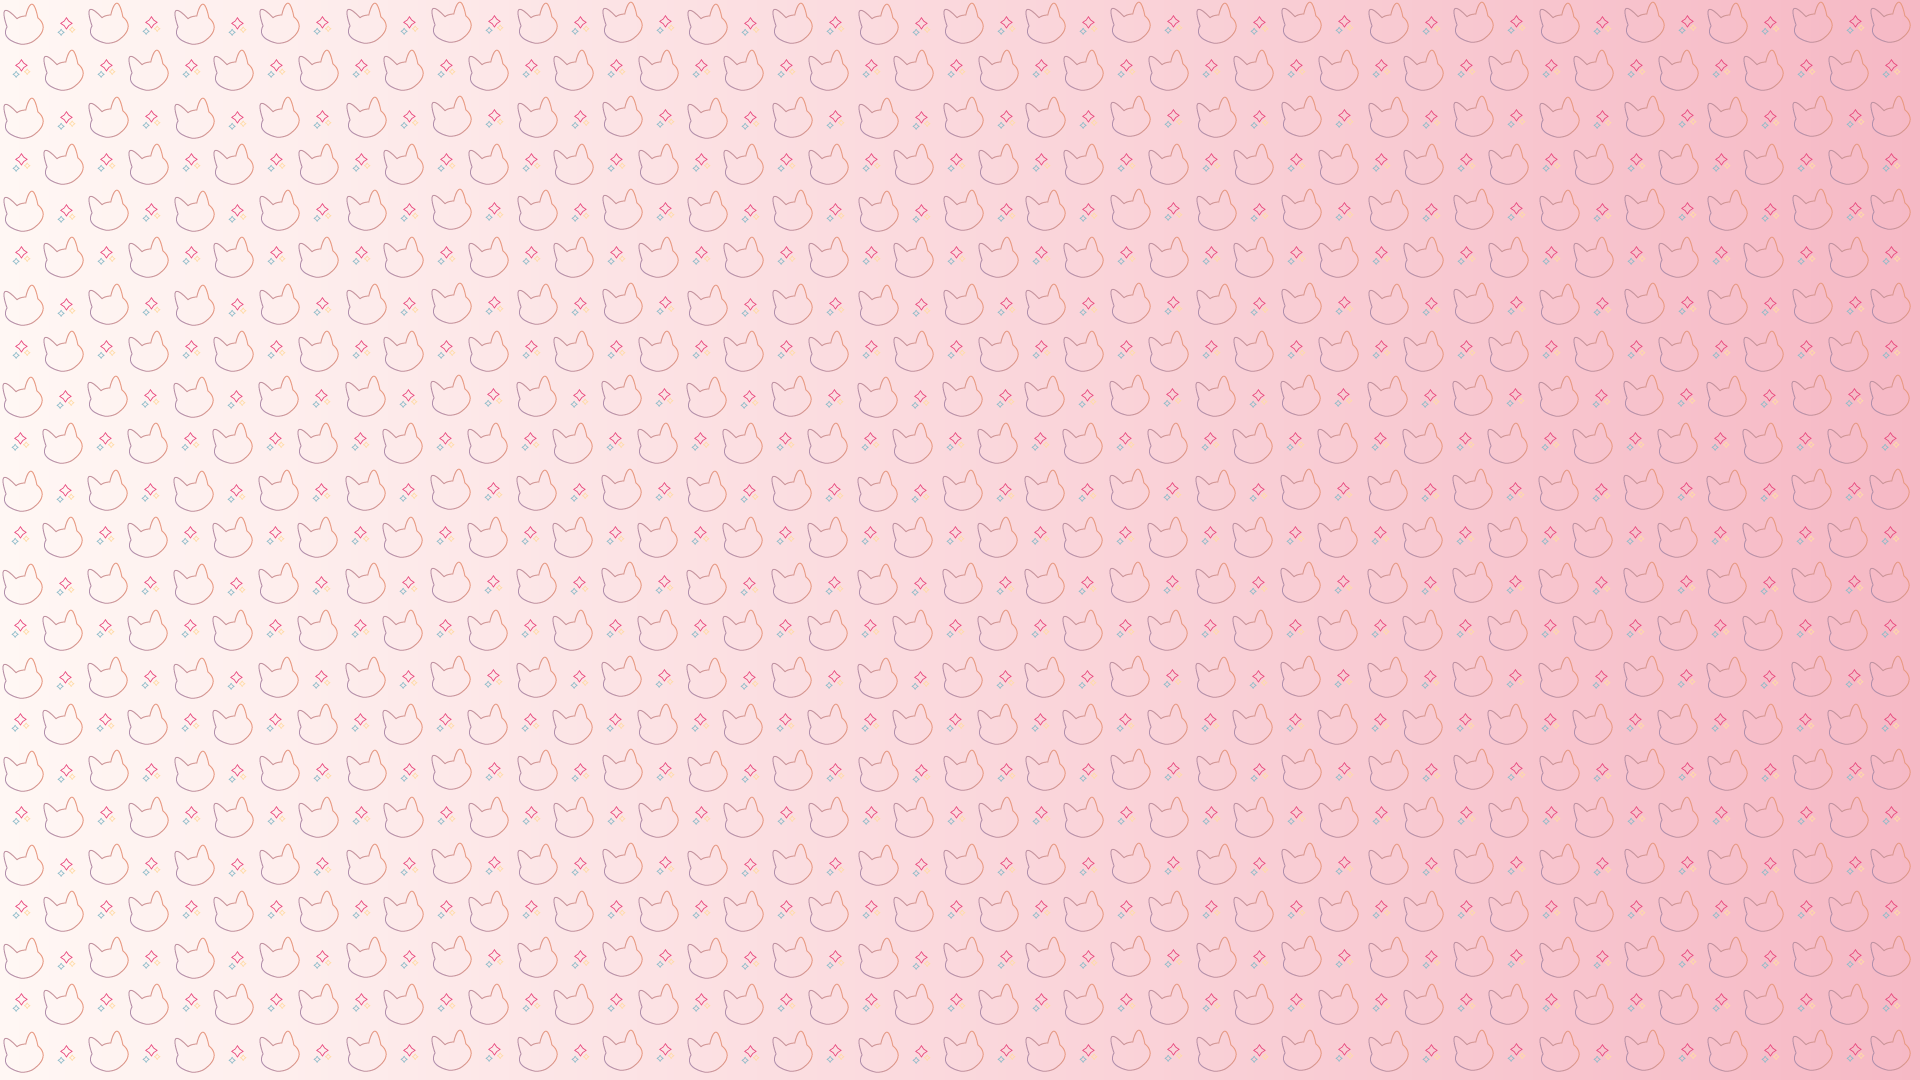
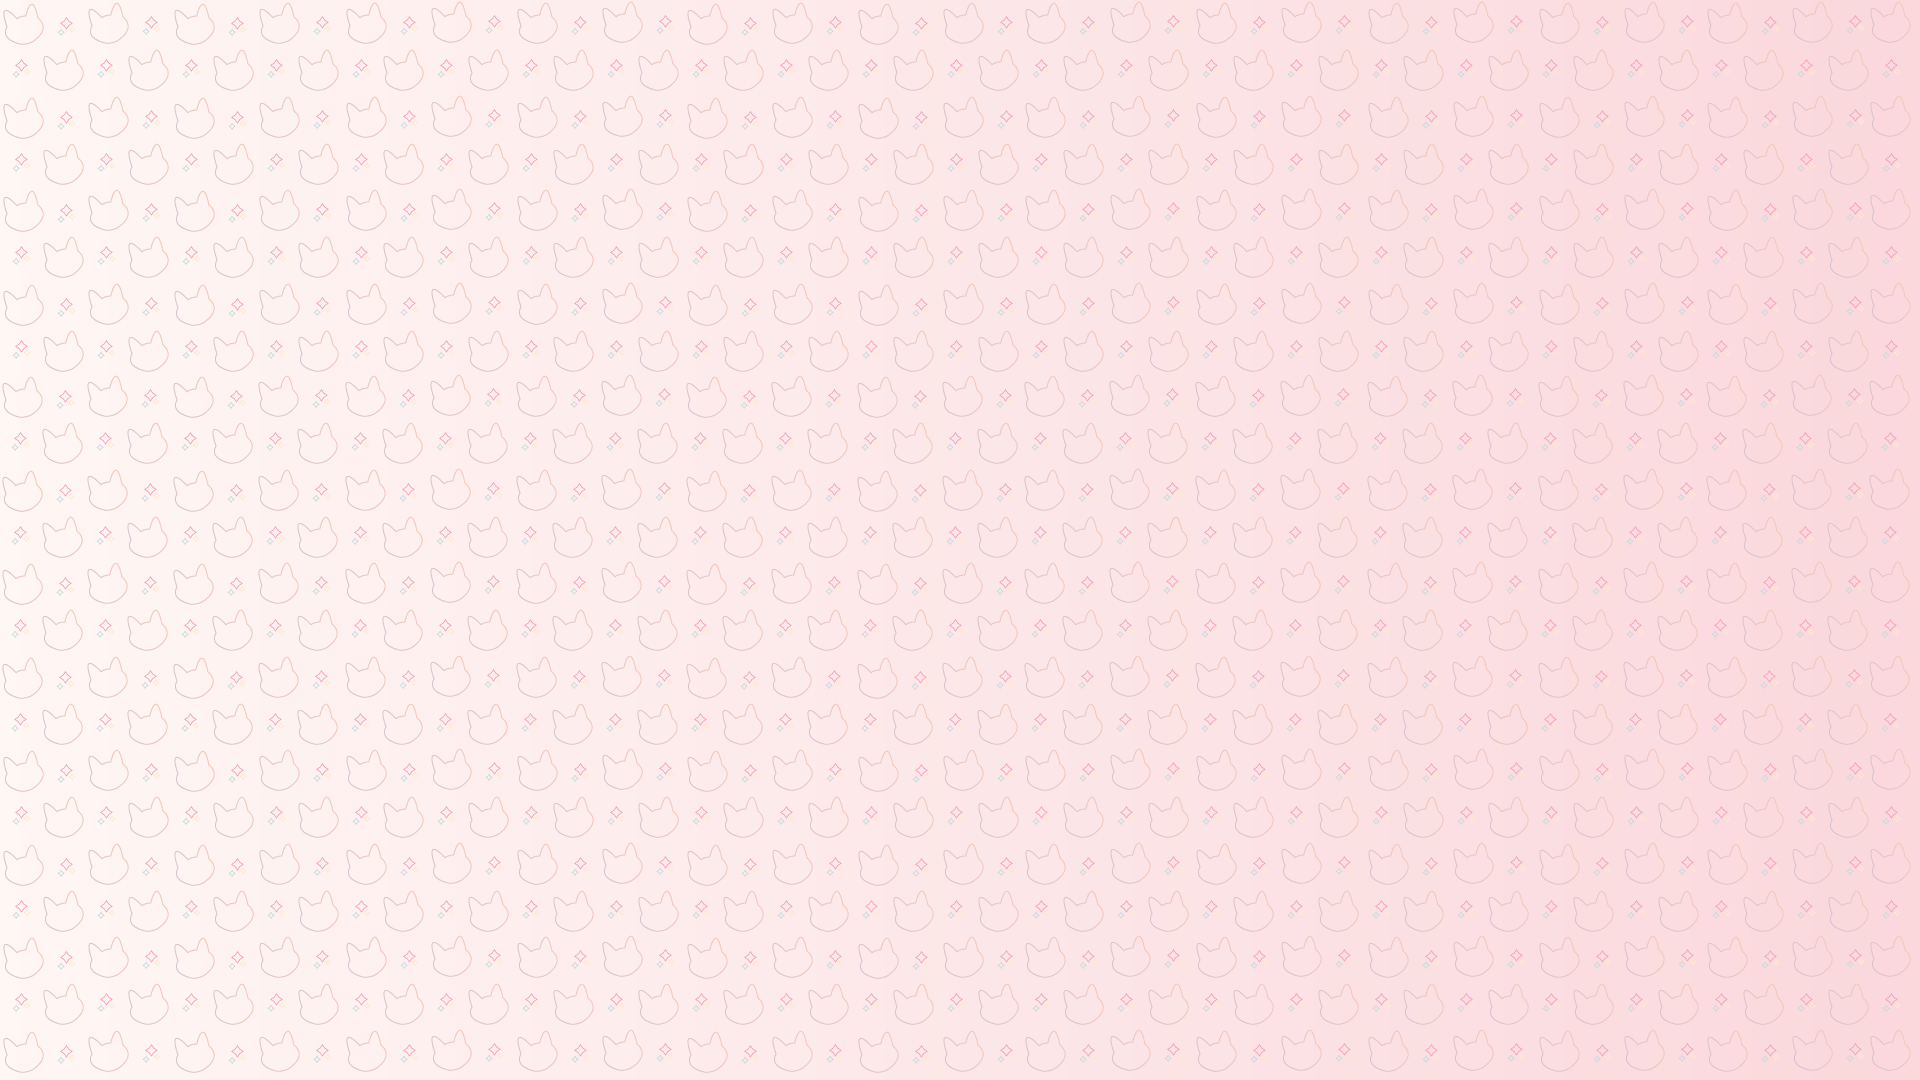
cambios en background

diff --git a/src/style.css b/src/style.css
@@ -1,5 +1,16 @@
 @import url('https://fonts.googleapis.com/css2?family=Inconsolata:wght@200&family=Shizuru&family=Supermercado+One&display=swap');
 
+body {
+    background-image: url(./img/FondoKitter.png);
+    background-image: no-repeat;
+    background-image: fixed;
+    background-image: center;
+    -webkit-background-size: cover;
+    -moz-background-size: cover;
+    -o-background-size: cover;
+    background-size: cover;
+}
+
 .logo {
     font-family: 'Shizuru';
     font-size: 9vw;
@@ -12,7 +23,8 @@
     background-size: 16%;
 }
 
-.boxTitle{
+
+.boxTitle {
     z-index: 2;
     width: 18em;
     height: 2.7em;
@@ -20,14 +32,15 @@
     margin-right: auto;
     left: 0;
     right: 0;
-    border-top-left-radius : 5px;
+    border-top-left-radius: 5px;
     border-top-right-radius: 5px;
     border-color: #686260;
     border-style: solid;
     border-width: 1px;
-    background-color:#DDCFE7;
+    background-color: #DDCFE7;
 }
-.title{
+
+.title {
     height: 2.7em;
     top: -0.7em;
     position: relative;
@@ -37,6 +50,7 @@
     flex-wrap: wrap;
     color: #5C446D;
 }
+
 .form {
     position: absolute;
     margin-left: auto;
@@ -58,7 +72,7 @@
 
 .input {
     position: relative;
-    font-family: 'Inconsolata'; 
+    font-family: 'Inconsolata';
     font-size: 1.2em;
     text-align: left;
     height: 2em;
@@ -89,4 +103,5 @@
     text-align: center;
     padding: 2%;
 }
+
 /* color de fondo 255 247 244  */
